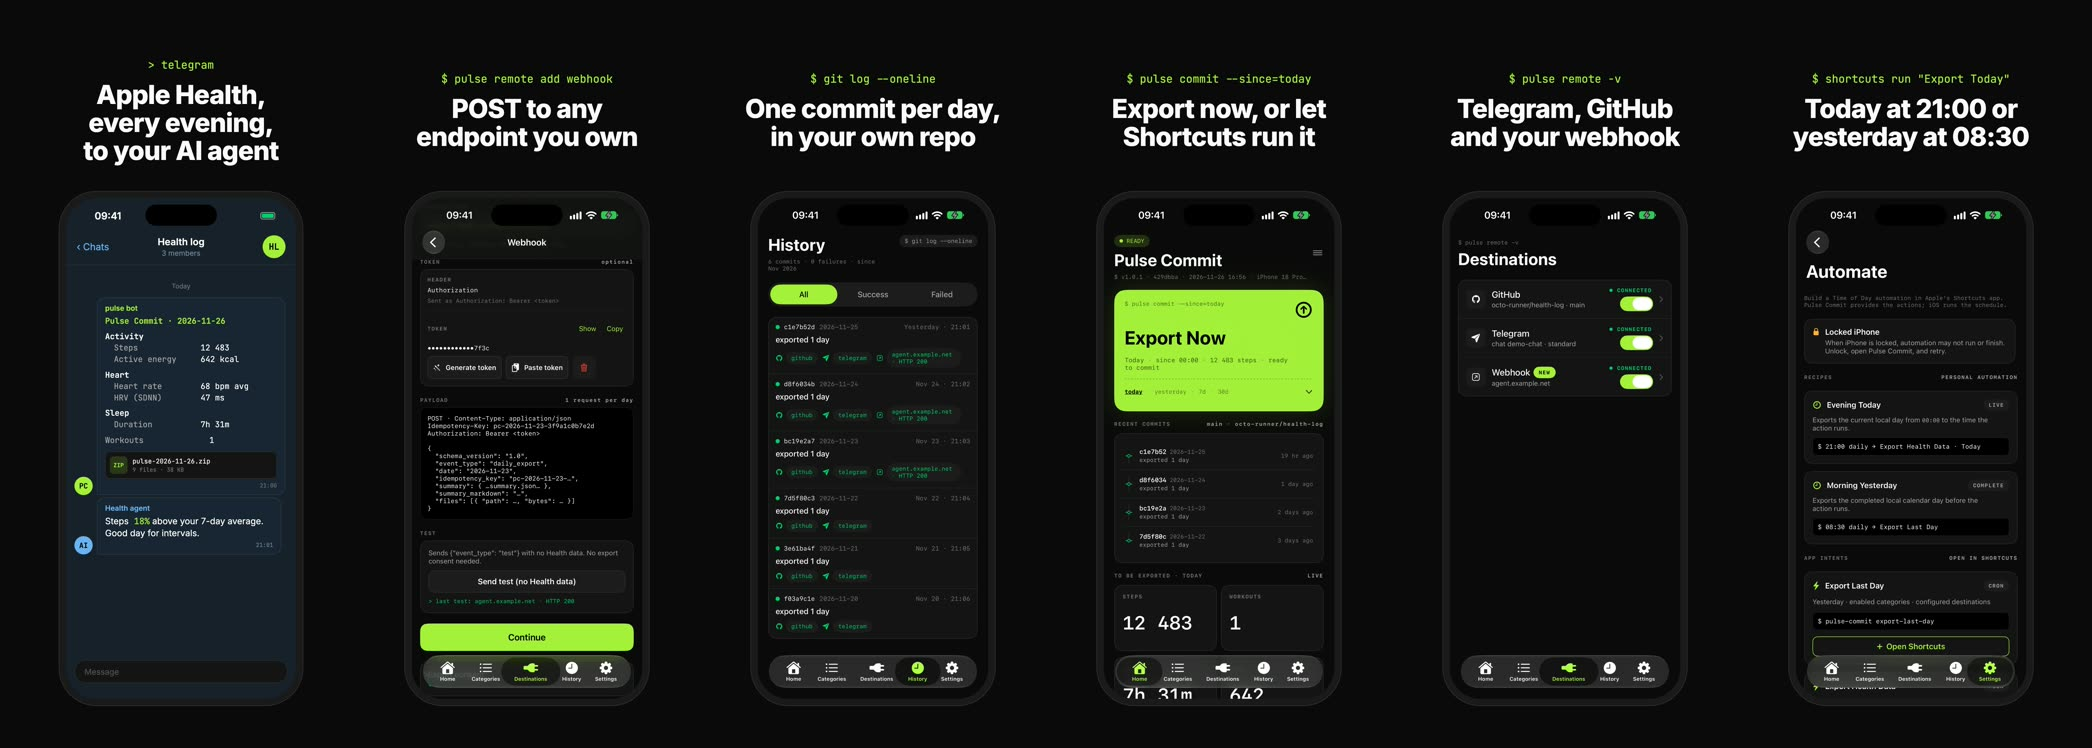
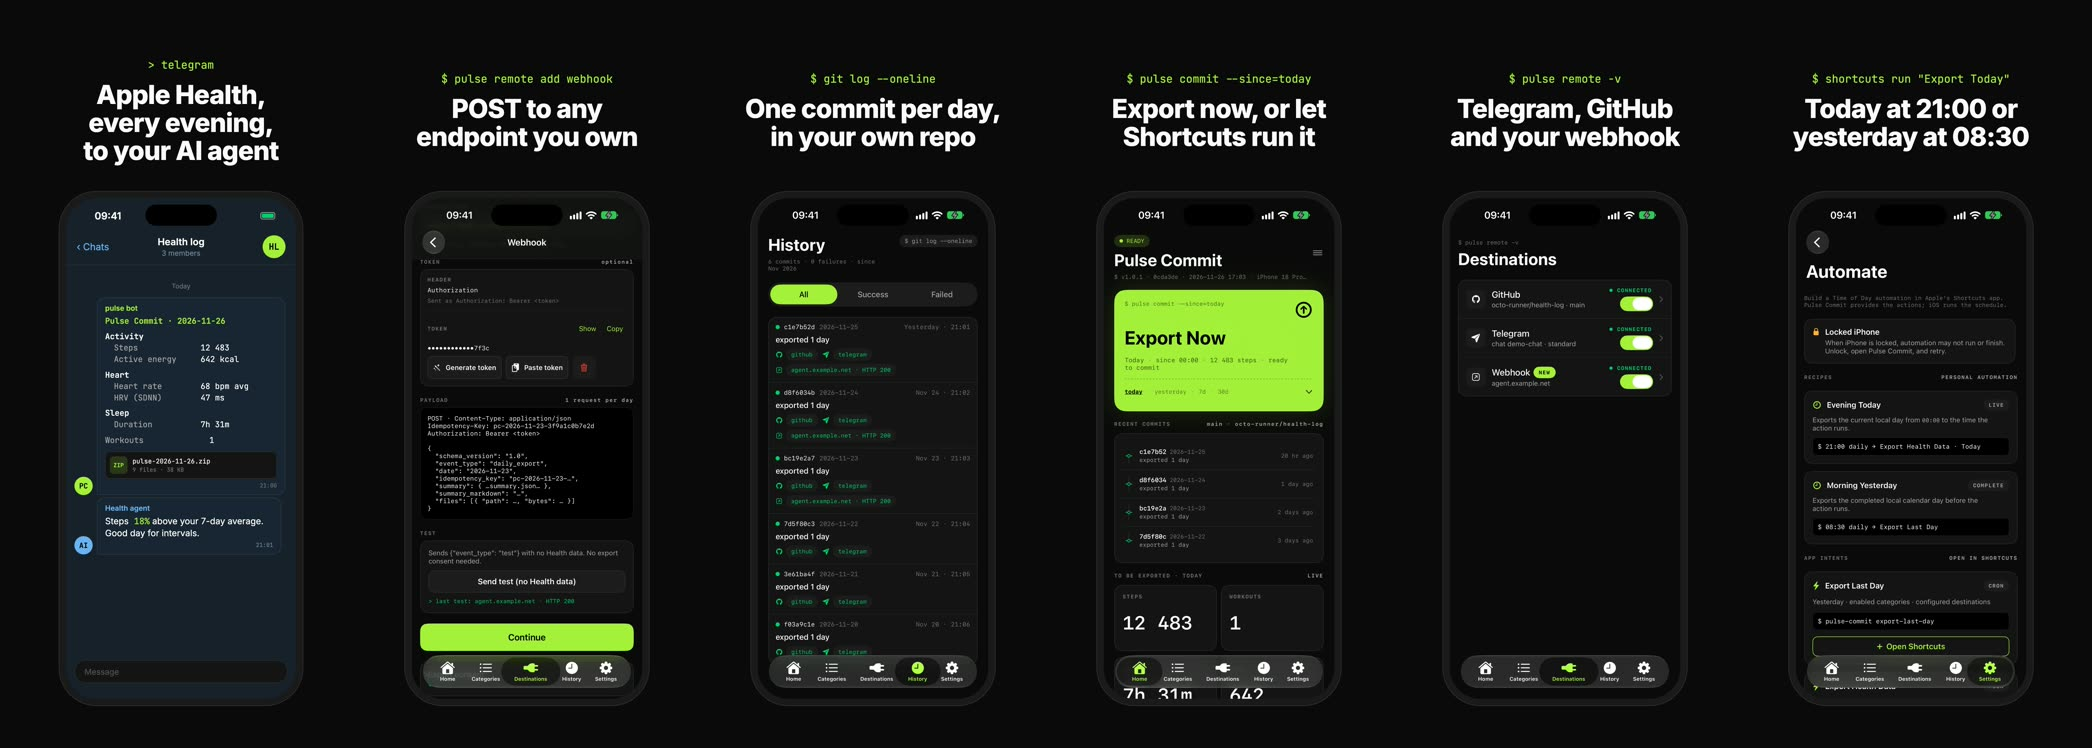
Re-render hero with webhook History rows, add store contact sheet

Changed region(s): [[0.3728, 0.4612, 0.4661, 0.8917], [0.435, 0.5227, 0.4661, 0.5535]]

diff --git a/marketing/video/src/layout.ts b/marketing/video/src/layout.ts
@@ -17,12 +17,11 @@ export const HOME = {
 export const HISTORY = {
   rowsArea: { x: 62, y: 683, w: 1082, h: 1697, bg: "#141414" },
   rows: [
-    [683, 968],
-    [968, 1256],
-    [1256, 1544],
-    [1544, 1832],
-    [1832, 2120],
-    [2120, 2380],
+    [683, 1055],
+    [1055, 1431],
+    [1431, 1807],
+    [1807, 2183],
+    [2183, 2380],
   ],
 };
 
